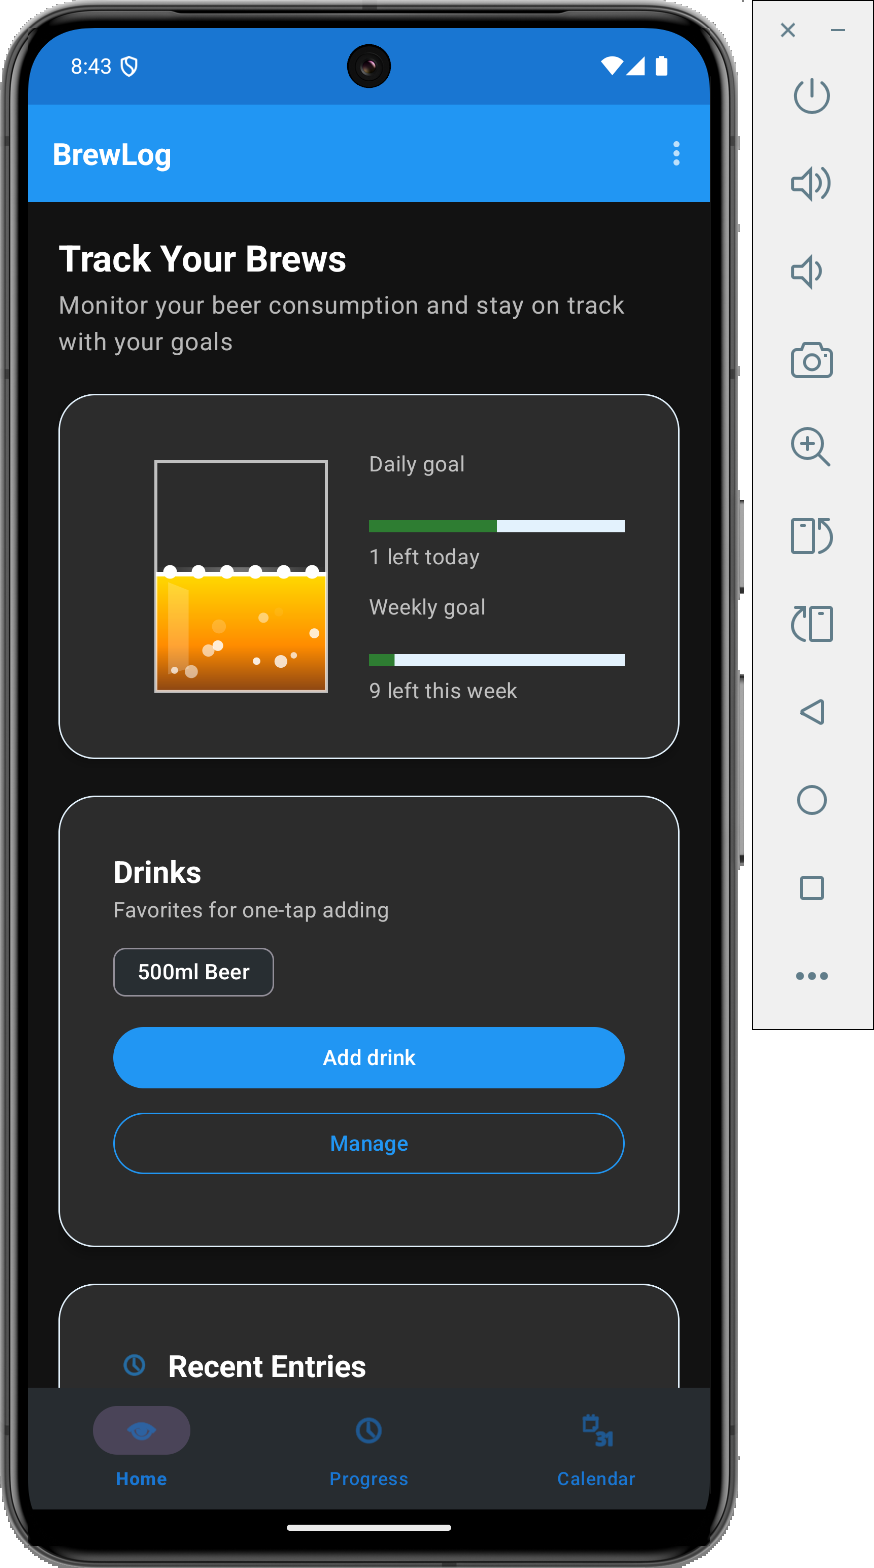
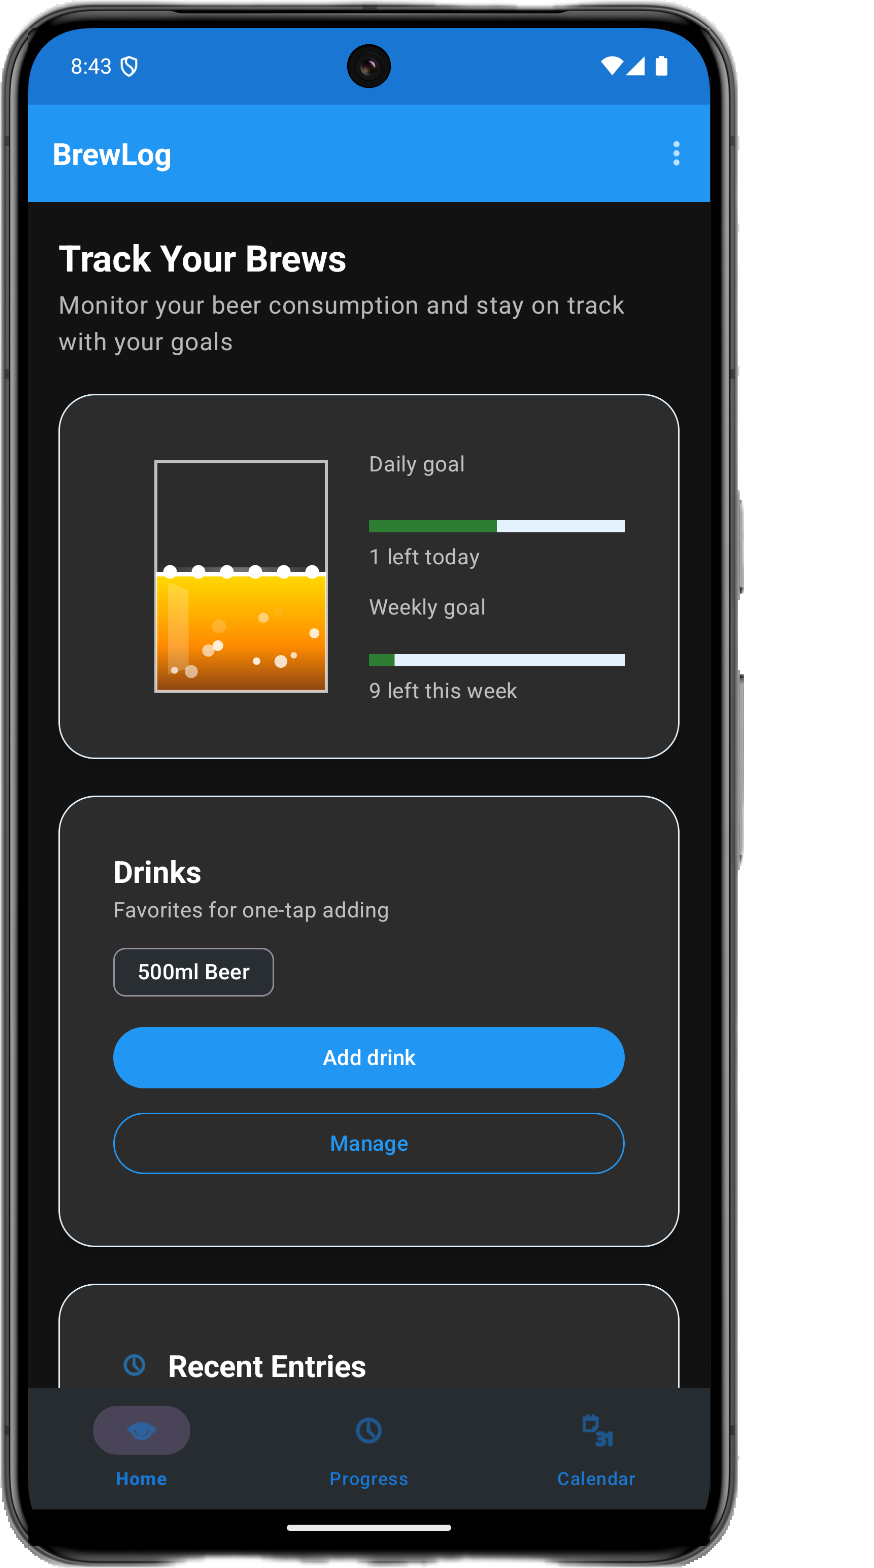
Update home screenshot to reflect latest UI changes

diff --git a/README.md b/README.md
@@ -48,6 +48,7 @@ Your data, your control:
 
 ### Screenshots
 
+![Home](screenshots/home.png)
 
 ---
 
@@ -124,4 +125,4 @@ brewlog/
   - Ensure `android/local.properties` points to your SDK or export `ANDROID_SDK_ROOT`
 
 ### License
-GPL3 — see `LICENSE`. 
+MIT — see `LICENSE`. 
